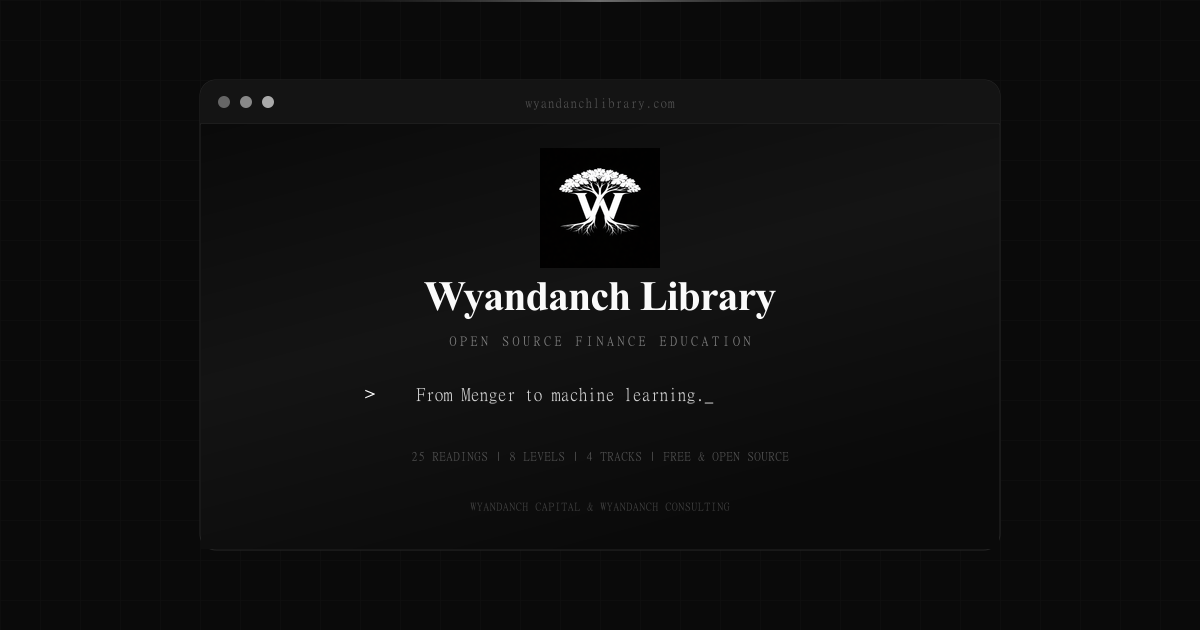
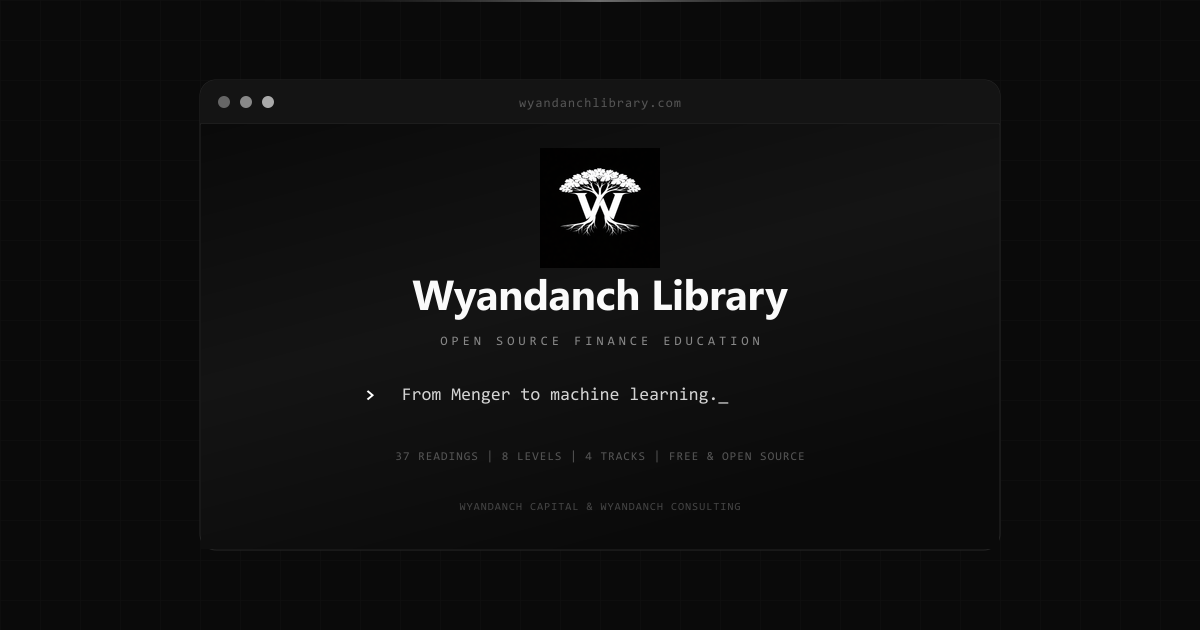
Update OG image: 37 readings, cleaner font rendering

diff --git a/app/layout.tsx b/app/layout.tsx
@@ -13,7 +13,7 @@ const inter = Inter({
 export const metadata: Metadata = {
   title: 'Wyandanch Library | Open Source Finance Education',
   description:
-    'A free, open source curriculum for learning investing and quantitative finance from first principles. 25 readings across 8 progressive levels.',
+    'A free, open source curriculum for learning investing and quantitative finance from first principles. 37 readings across 8 progressive levels.',
   keywords: [
     'finance education',
     'investing curriculum',
@@ -45,7 +45,7 @@ export const metadata: Metadata = {
     card: 'summary_large_image',
     title: 'Wyandanch Library',
     description:
-      'Free, open source finance education. 25 readings across 8 levels — from Menger to machine learning.',
+      'Free, open source finance education. 37 readings across 8 levels — from Menger to machine learning.',
     images: ['/og.png'],
   },
   robots: { index: true, follow: true },
